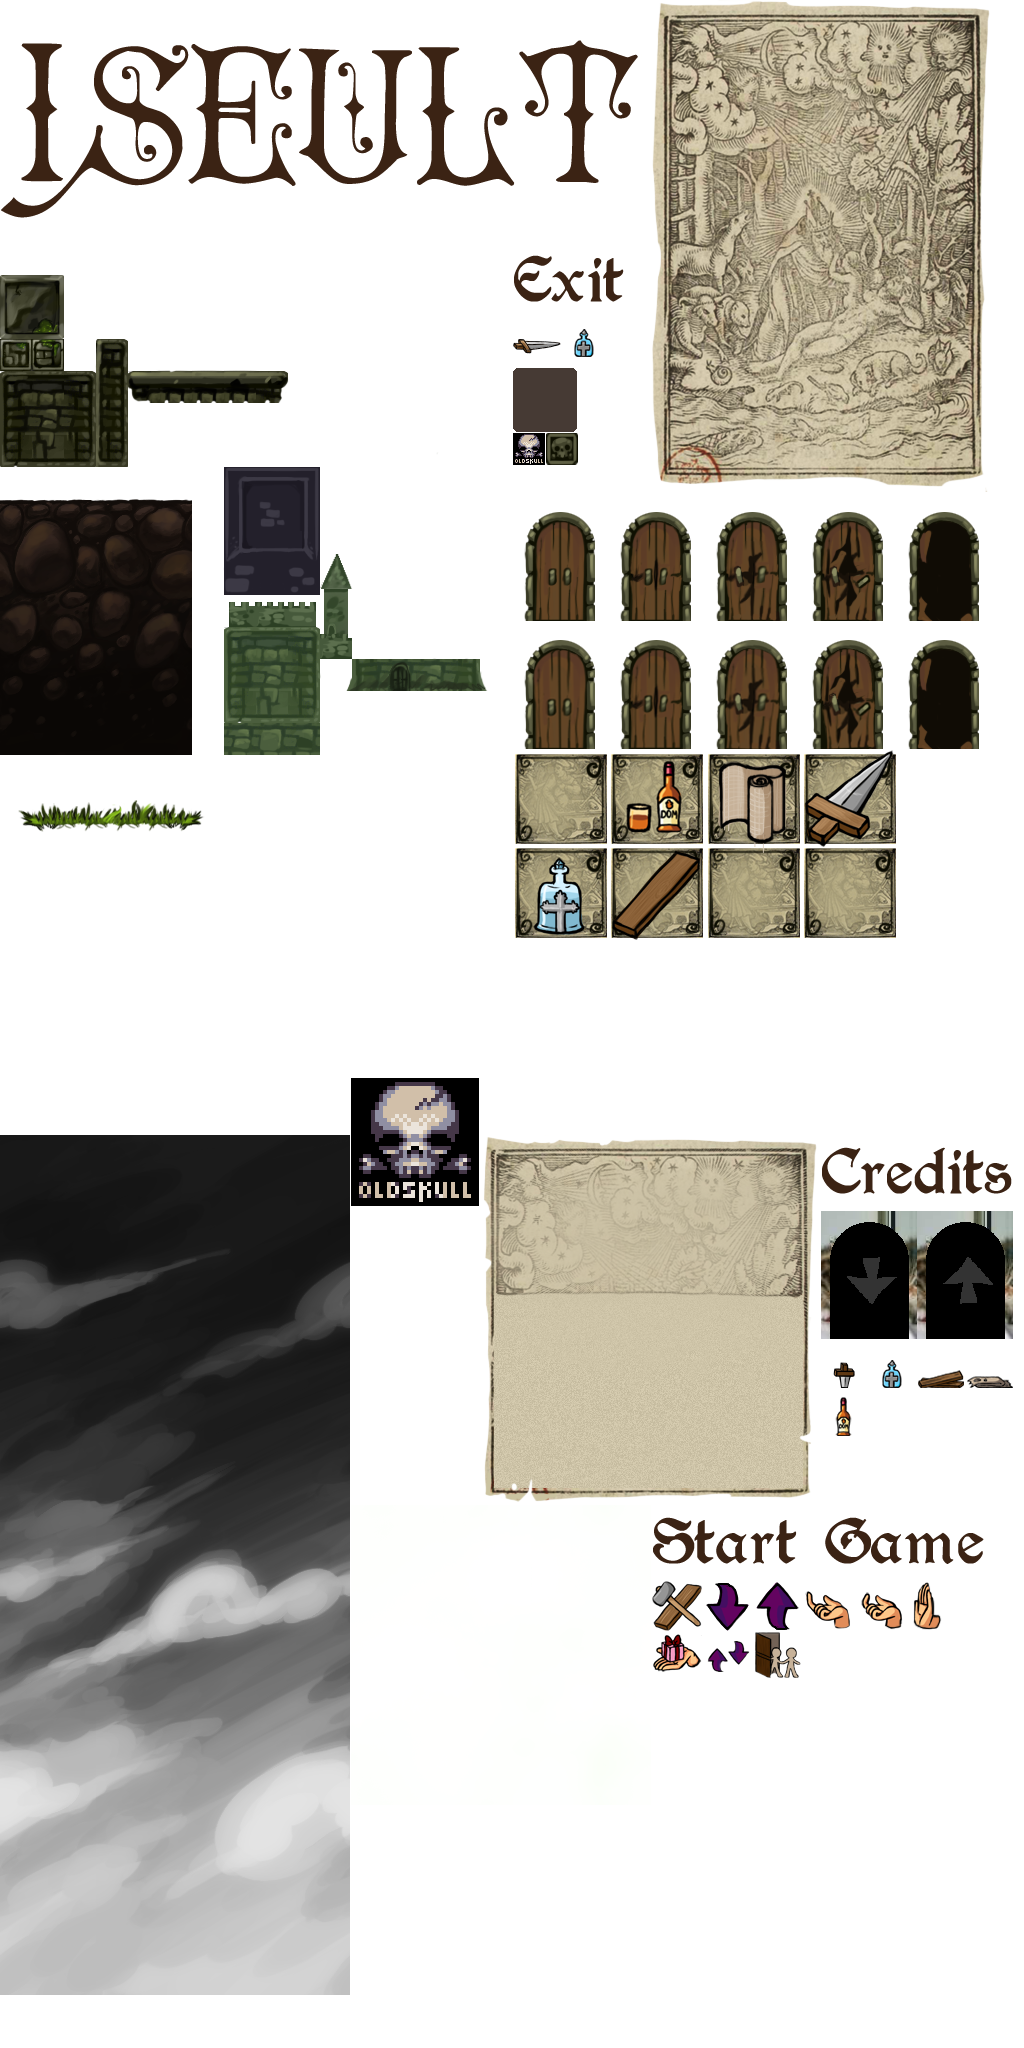
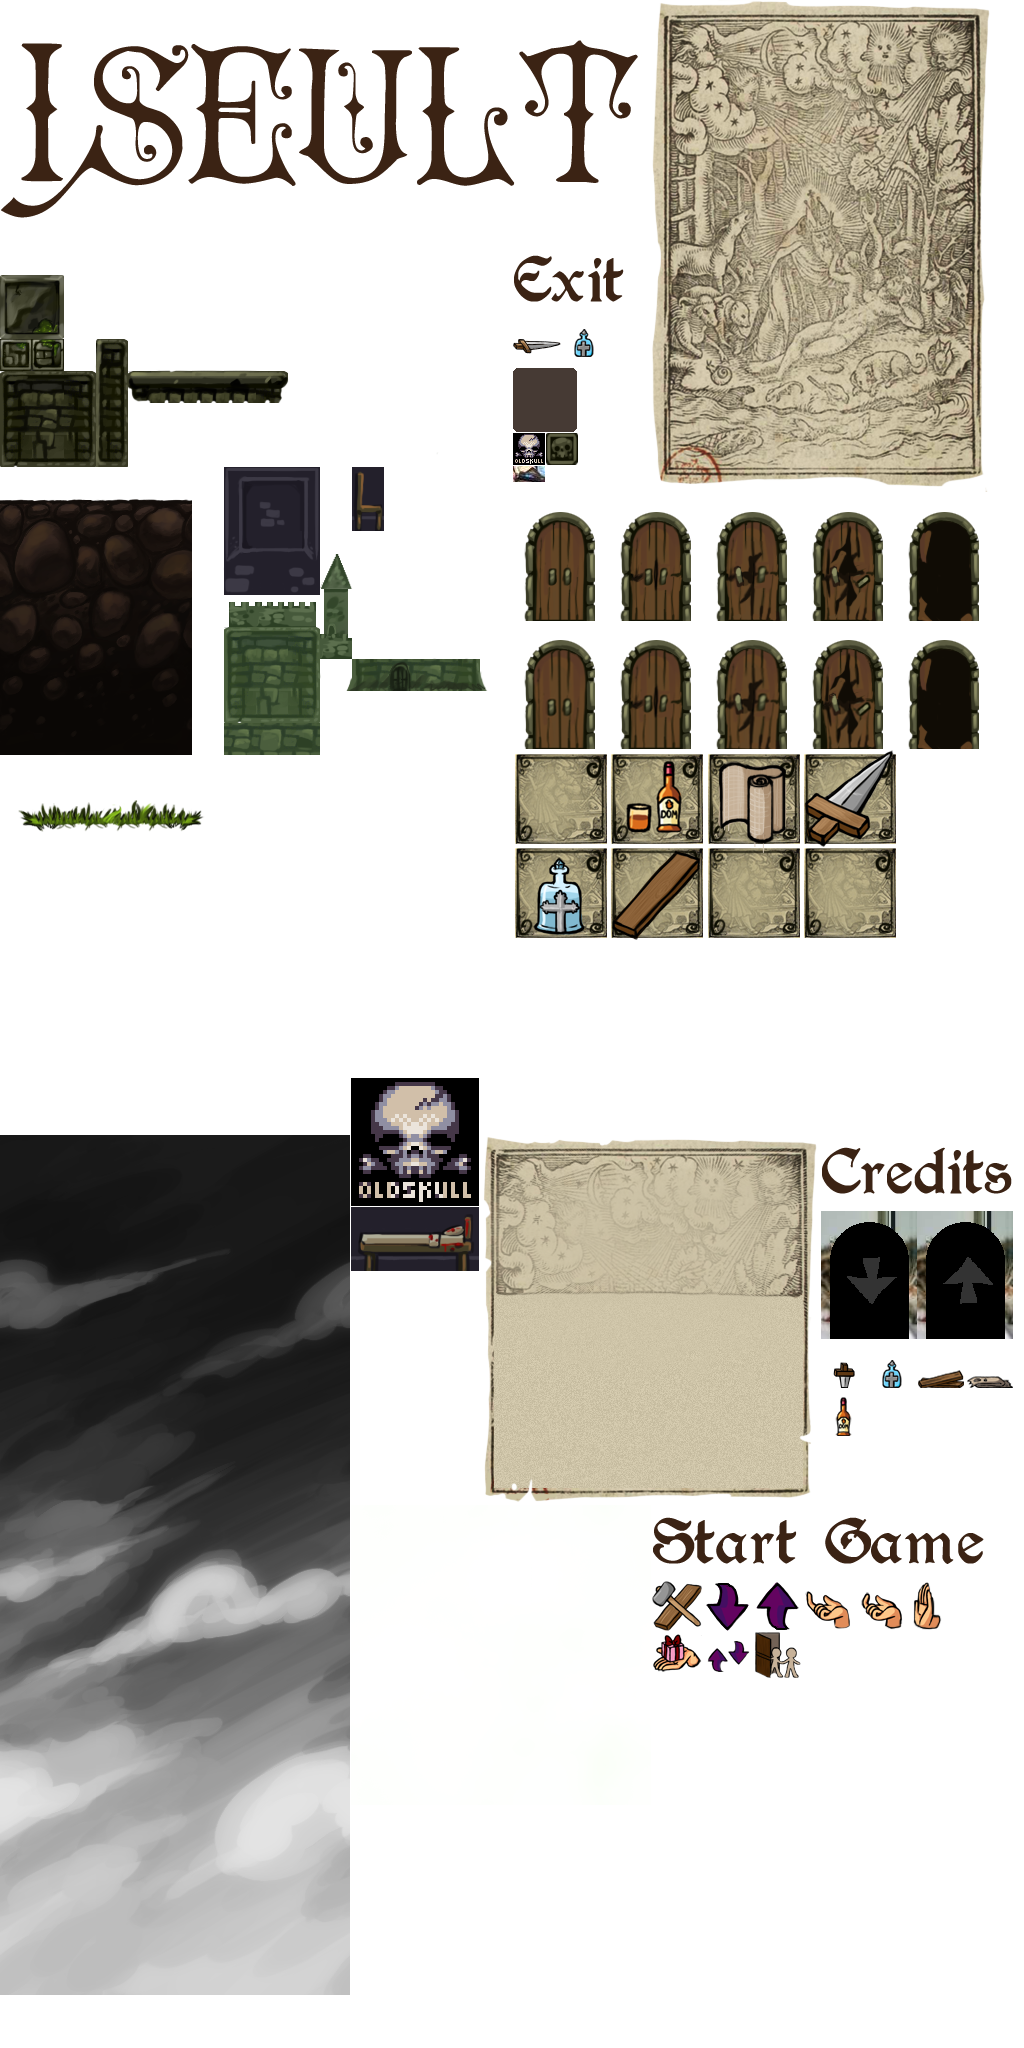
Pressure plates

Changed region(s): [[0.3438, 0.5625, 0.4688, 0.625], [0.3438, 0.2188, 0.375, 0.2812], [0.5, 0.2188, 0.5312, 0.25]]

diff --git a/OldSkull/Input/KeyboardInput.cs b/OldSkull/Input/KeyboardInput.cs
@@ -18,7 +18,7 @@ namespace OldSkull
         public struct KeyAction
         {
             public String name;
-            public Keys key;
+            public List<Keys> key;
 
             public Boolean check;
             public Boolean pressed;
@@ -55,9 +55,25 @@ namespace OldSkull
             //TODO: Check for existing key.
             KeyAction newKey = new KeyAction();
             newKey.name = name;
-            newKey.key = key;
+            newKey.key = new List<Keys>();
+            newKey.key.Add(key);
             keyList.Add(newKey);
         }
+
+        public static void Add(String name, Keys[] key)
+        {
+            //TODO: Check for existing key.
+            KeyAction newKey = new KeyAction();
+            newKey.name = name;
+            newKey.key = new List<Keys>();
+            foreach (Keys k in key)
+            {
+                newKey.key.Add(k);
+            }
+            
+            keyList.Add(newKey);
+        }
+
 
         public static void AddAxis(Keys up = Keys.Up, Keys down = Keys.Down, Keys left = Keys.Left, Keys right = Keys.Right)
         {
@@ -65,22 +81,26 @@ namespace OldSkull
 
             newKey = new KeyAction();
             newKey.name = "up";
-            newKey.key = up;
+            newKey.key = new List<Keys>();
+            newKey.key.Add(up);
             keyList.Add(newKey);
             
             newKey = new KeyAction();
             newKey.name = "down";
-            newKey.key = down;
+            newKey.key = new List<Keys>();
+            newKey.key.Add(down);
             keyList.Add(newKey);
 
             newKey = new KeyAction();
             newKey.name = "left";
-            newKey.key = left;
+            newKey.key = new List<Keys>();
+            newKey.key.Add(left);
             keyList.Add(newKey);
 
             newKey = new KeyAction();
             newKey.name = "right";
-            newKey.key = right;
+            newKey.key = new List<Keys>();
+            newKey.key.Add(right);
             keyList.Add(newKey);
 
         }
@@ -93,9 +113,16 @@ namespace OldSkull
                 Any = false;
                 for (int i = 0; i < keyList.Count; i++) // Loop through List with for
                 {
+
                     KeyAction k = keyList[i];
-                    k.check = Input.Check(k.key);
-                    k.pressed = Input.Pressed(k.key);
+                    k.check = false;
+                    k.pressed = false;
+                    foreach (Keys cKey in k.key)
+                    {
+                        k.check = k.check || Input.Check(cKey);
+                        k.pressed = k.pressed || Input.Pressed(cKey);
+                    }
+                    
                     if (k.pressed) Any = true;
                     keyList[i] = k;
                 }

diff --git a/Iseult/Castle/FadeArea.cs b/Iseult/Castle/FadeArea.cs
@@ -10,17 +10,21 @@ using Iseult.Castle;
 
 namespace Iseult
 {
-    public class FadeArea:PlatformLevelEntity
+    public class FadeArea:PlatformLevelEntity,Mechanical
     {
         Image image;
         private bool Fading;
         private string uid;
+        public int ID { get; private set; }
 
-        public FadeArea(Vector2 Position, Vector2 Size, string uid)
+        public FadeArea(Vector2 Position, Vector2 Size, string uid, int ID)
             : base(GameLevel.FRONT_GAMEPLAY_LAYER)
         {
             this.Position = Position;
             this.uid = uid;
+            this.ID = ID;
+
+            Tag(GameTags.Mechanical);
 
             Collider = new Hitbox(Size.X,Size.Y);
 
@@ -35,16 +39,43 @@ namespace Iseult
             
             if (Level.CollideCheck(Collider.Bounds,GameTags.Player))
             {
-                if (!Fading)
-                {
-                    Fading = true;
-                    Tween.Alpha(image, 0, 40, Ease.CubeIn).OnComplete = (t) =>
-                        {
-                            IseultGame.Stats.SetTrigger(uid);
-                            RemoveSelf();
-                        };
-                }
+                Reveal();
             }
+        }
+
+        private void Reveal()
+        {
+            if (!Fading)
+            {
+                Fading = true;
+                Tween.Alpha(image, 0, 40, Ease.CubeIn).OnComplete = (t) =>
+                {
+                    IseultGame.Stats.SetTrigger(uid);
+                    RemoveSelf();
+                };
+            }
+        }
+
+
+
+        public void OnLetGo()
+        {
+            
+        }
+
+        public void OnHit()
+        {
+            Reveal();
+        }
+
+        public void OnStepped()
+        {
+        }
+
+
+        public int GetID()
+        {
+            return ID;
         }
     }
 }

diff --git a/Iseult/Castle/PressurePlate.cs b/Iseult/Castle/PressurePlate.cs
@@ -1,0 +1,67 @@
+using System;
+using System.Collections.Generic;
+using System.Linq;
+using System.Text;
+using Monocle;
+using OldSkull.GameLevel;
+using Microsoft.Xna.Framework;
+using Iseult.Castle;
+
+namespace Iseult
+{
+    public class PressurePlate:PlatformLevelEntity
+    {
+        private bool WasStepped=false;
+        private int id;
+
+        public PressurePlate(Vector2 Position, int id)
+            :base(0)
+        {
+            this.id = id;
+            this.Position = Position;
+            Image Image = new Image(IseultGame.Atlas["environment/pressurePlate"]);
+            Add(Image);
+            Collider = new Hitbox(32, 16);
+        }
+
+        public override void Update()
+        {
+            base.Update();
+            if (Level.CollideCheck(Collider.Bounds, GameTags.Heavy))
+            {
+                if (!WasStepped)
+                {
+                    WasStepped = true;
+                    OnHit();
+                }
+                OnStepped();
+            }
+            else
+            {
+                if (WasStepped)
+                {
+                    WasStepped = false;
+                    OnLetGo();
+                }
+            }
+        }
+
+        private void OnLetGo()
+        {
+            Mechanical Target = ((GameLevel)Level).getMechanical(id);
+            if (Target!=null) Target.OnLetGo();
+        }
+
+        private void OnHit()
+        {
+            Mechanical Target = ((GameLevel)Level).getMechanical(id);
+            if (Target != null) Target.OnHit();
+        }
+
+        private void OnStepped()
+        {
+            Mechanical Target = ((GameLevel)Level).getMechanical(id);
+            if (Target != null) Target.OnStepped();
+        }
+    }
+}

diff --git a/Iseult/Castle/GameLevel.cs b/Iseult/Castle/GameLevel.cs
@@ -144,8 +144,12 @@ namespace Iseult
                 string uid = Name + e.Attr("id");
                 if (!IseultGame.Stats.HasTrigger(uid))
                 {
-                    Add(new FadeArea(new Vector2(e.AttrFloat("x"), e.AttrFloat("y")), new Vector2(e.AttrFloat("width"), e.AttrFloat("height")), uid));
+                    Add(new FadeArea(new Vector2(e.AttrFloat("x"), e.AttrFloat("y")), new Vector2(e.AttrFloat("width"), e.AttrFloat("height")), uid,e.AttrInt("id")));
                 }
+            }
+            else if (e.Name == "PressurePlate")
+            {
+                Add(new PressurePlate(new Vector2(e.AttrFloat("x"), e.AttrFloat("y")), e.AttrInt("triggerID")));
             }
         }
 
@@ -246,5 +250,17 @@ namespace Iseult
             Add(newTile);
         }
 
+
+        internal Mechanical getMechanical(int id)
+        {
+            foreach (Entity e in Tags[(int)GameTags.Mechanical])
+            {
+                if (e is Mechanical)
+                {
+                    if (((Mechanical)e).GetID() == id) return (Mechanical)e;
+                }
+            }
+            return null;
+        }
     }
 }

diff --git a/OldSkull/GameLevel/PlatformerLevel.cs b/OldSkull/GameLevel/PlatformerLevel.cs
@@ -59,7 +59,7 @@ namespace OldSkull.GameLevel
             SetLayer(GAMEPLAY_LAYER, gameLayer = new Layer(BlendState.NonPremultiplied, SamplerState.AnisotropicClamp));
             SetLayer(FRONT_GAMEPLAY_LAYER, gameLayer = new Layer(BlendState.NonPremultiplied, SamplerState.PointClamp));
             SetLayer(HUD_LAYER, hudLayer = new Layer(BlendState.NonPremultiplied, SamplerState.PointClamp, 0));
-            SetLayer(PAUSE_LAYER, pauseLayer = new Layer(BlendState.NonPremultiplied, SamplerState.PointClamp, 0));
+            SetLayer(PAUSE_LAYER, pauseLayer = new Layer(BlendState.NonPremultiplied, SamplerState.AnisotropicClamp , 0));
 
             Solids = new List<Entity>();
 

diff --git a/OldSkull/OldSkullGame.cs b/OldSkull/OldSkullGame.cs
@@ -58,8 +58,9 @@ namespace OldSkull
             Screen.Scale = 2f;
 
             KeyboardInput.InitDefaultInput();
-            KeyboardInput.Add("jump", Keys.Z);
-            KeyboardInput.Add("use", Keys.X);
+            KeyboardInput.Add("jump", new Keys[]{ Keys.Z,Keys.Space});
+            KeyboardInput.Add("use", new Keys[] { Keys.X, Keys.Enter });
+            KeyboardInput.Add("accept", new Keys[] { Keys.Z, Keys.X, Keys.Space, Keys.Enter });
             KeyboardInput.Add("pause", Keys.P);
             KeyboardInput.Add("escape", Keys.Escape);
         }

diff --git a/Iseult/Castle/characters/Mordecai.cs b/Iseult/Castle/characters/Mordecai.cs
@@ -36,6 +36,7 @@ namespace Iseult
         public Mordecai(Vector2 Position)
             :base(Position, new Vector2(32,64))
         {
+            Tag(new GameTags[] { GameTags.Player, GameTags.Heavy });
             this.Position = Position;
             image = IseultGame.SpriteData.GetSpriteString("mordecai");
             Add(image);

diff --git a/Iseult/Castle/characters/IseultPlayer.cs b/Iseult/Castle/characters/IseultPlayer.cs
@@ -29,6 +29,7 @@ namespace Iseult
         public IseultPlayer(Vector2 Position)
             : base(Position, new Vector2(48, 90),"iseult")
         {
+            Tag(new GameTags[] { GameTags.Player, GameTags.Heavy });
             MaxSpeed.X = 5.50f;
             MaxSpeed.Y = 10;
             Acceleration = 1f;

diff --git a/Iseult/Castle/Mechanical.cs b/Iseult/Castle/Mechanical.cs
@@ -1,0 +1,18 @@
+using System;
+using System.Collections.Generic;
+using System.Linq;
+using System.Text;
+
+namespace Iseult.Castle
+{
+    public interface Mechanical
+    {
+        void OnLetGo();
+        
+        void OnHit();
+        
+        void OnStepped();
+
+        int GetID();
+    }
+}

diff --git a/Iseult/Castle/characters/Enemy.cs b/Iseult/Castle/characters/Enemy.cs
@@ -29,6 +29,7 @@ namespace Iseult
         public Enemy(Vector2 Position, string uid)
             : base(Position, new Vector2(48, 90))
         {
+            Tag(new GameTags[] { GameTags.Player, GameTags.Heavy });
             this.uid = uid;
             Hp = 3;
 

diff --git a/Monocle/MonocleEngine/Engine.cs b/Monocle/MonocleEngine/Engine.cs
@@ -16,7 +16,7 @@ using Ouya.Console.Api;
 
 namespace Monocle
 {
-    public enum GameTags { Player = 0, Door, Solid, Item, Enemy, Npc};
+    public enum GameTags { Player = 0, Door, Solid, Item, Enemy, Npc, Heavy, Mechanical };
 
     public class Engine : Game
     {

diff --git a/OldSkull/GameLevel/Mechanical.cs b/OldSkull/GameLevel/Mechanical.cs
@@ -1,0 +1,1 @@
+
